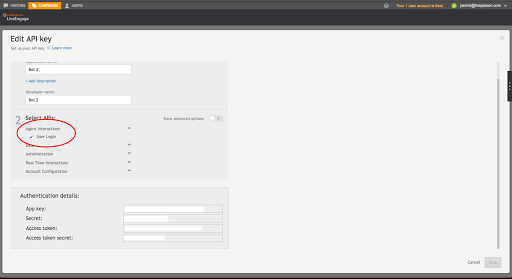
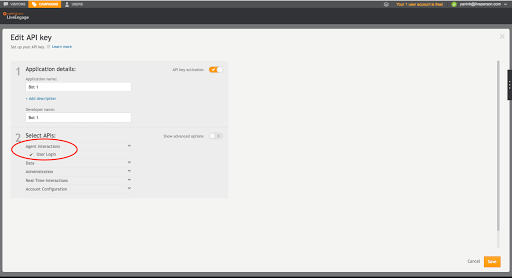
changes to login api and bringing back data access changelog

diff --git a/pages/documents/agent-interactions/login/getting-started.md b/pages/documents/agent-interactions/login/getting-started.md
@@ -20,7 +20,7 @@ This API provides endpoints for managing the User Session (User Login, Applicati
 
 **Use Cases**
 
-1. User Login - use this method when you need to provide a programmatic way for _users_ to access and manage a LiveEngage session such as customized agent workspace or hosting a LiveEngage user in an external app. _Note_
+1. User Login - use this method when you need to provide a programmatic way for _users_ to access and manage a LiveEngage session such as customized agent workspace or hosting a LiveEngage user in an external app. _Note_:
 
     * Using the User Login method, logged in users will be managed under the same restrictions as normal users in LiveEngage, including (for example) password expiration, concurrent conversations limits, skill groups and so on.
 
@@ -29,7 +29,7 @@ This API provides endpoints for managing the User Session (User Login, Applicati
 {:start="2"}
 2. Appplication Login - use this method when you need to provide a programmatic way for _applications_ to access and manage a LiveEngage session such as bots, virtual agents or any other app that needs to act as an agent in the LiveEngage.
 
-  * _Note_: the Application Login method overcomes both issues detailed above with the User Login method, for example password expiration or SSO integration.
+    * _Note_: the Application Login method overcomes both issues detailed above with the User Login method, for example password expiration or SSO integration.
 
 ### Getting Started
 
@@ -44,8 +44,44 @@ This API provides endpoints for managing the User Session (User Login, Applicati
 {:start="2"}
 2. Choose your method of login:
 
-    * As a user - use your LiveEngage username and password to [login](/agent-login.html){:target="_blank"}.
+  As a user:
 
-    * As an application - [Follow these instructions](guides-gettingstarted.html){:target="_blank"}, to create and use an API key. Select the "Agent Interactions" category and check the "User Login" box.
+    * use your LiveEngage username and password to [login](/agent-login.html){:target="_blank"}.
 
-  ![APIKeyCreation](img/APIKeyCreation.png)
+  As an application:
+
+  _Note_: In order to login as an application, you first need to have the "User Type - Bot" feature activated. Please contact your account team before moving forward.
+
+    * [Follow these instructions](guides-gettingstarted.html){:target="_blank"}, to create and use an API key. Select the "Agent Interactions" category and check the "User Login" box.
+
+      ![APIKeyCreation](img/APIKeyCreation.png)
+
+      Note that all of the authentication details below have been filled out. You will use these in the application login body of this API.
+
+      Copy the generated app key to clipboard for future use.
+
+      ![APIKeyCreation1](img/apikeycreation1.png)
+
+    * Create a new user from within LiveEngage and set the user type to "Bot":
+
+      ![SetBot](img/setbot.png)
+
+    * Select "App Key" from the Login Method dropdown:
+
+      ![LoginMethod](img/loginmethod.png)
+
+    * Paste the app key you generated earlier into the app key field and finish creating the user (fill in all mandatory fields). Once done, click save at the top right.
+
+      ![UserWithKey](img/userwithkey.png)
+
+
+
+
+
+    * Once you have generated your application, you will need to associate it with a bot user.
+
+
+
+    * Once the user is created, copy paste your application key into the "app key" field in the user generation menu:
+
+    ![AppKey](images/appkey.png)

diff --git a/pages/documents/data/data-access/changelog.md b/pages/documents/data/data-access/changelog.md
@@ -1,0 +1,23 @@
+---
+title: Changelog
+level1: Documents
+level2: Data
+level3: Data Access API
+
+order: 62
+permalink: data-data-access-changelog.html
+
+---
+This document describes changes made to the Data Access API. Entries will appear under a relevant date and will detail changes made to either the documentation or the API itself. All changes should be backwards compatible but where they are not or extra work is needed to make sure that backwards compatibility is maintained, the Changelog will mention this.
+
+All future dates found in this documentation reflect approximations for upcoming additions or corrections and are subject to change.
+
+### June 18th, 2017
+
+**Bug Fixes**
+
+Fixed a bug where some of the conversation records created by the Data Access job had missing conversation IDs.
+
+**Data Access Schema (version 1.0.0.34)**  
+
+The `isInteractive` boolean field was added to the transfer section. This field indicates whether the transfer part of the conversation is interactive or not. _To clarify_, the `isInteractive` field in the main conversation section relates to the last part of the conversation.

diff --git a/pages/documents/data/data-access/appendix.md b/pages/documents/data/data-access/appendix.md
@@ -4,7 +4,7 @@ level1: Documents
 level2: Data
 level3: Data Access API
 
-order: 62
+order: 63
 permalink: data-data-access-appendix.html
 
 indicator: chat
@@ -14,16 +14,13 @@ This section contains API details that are common to every API’s resource and 
 
 ### Request Headers
 
-| Header | Description | 
+| Header | Description |
 | :------ | :----- |
-| Authorization | Contains token string to allow request authentication and authorization. | 
-| If-Match | Contains data revision as known by the client. Allows to optimize the backend, networking and client resources utilization. | 
+| Authorization | Contains token string to allow request authentication and authorization. |
+| If-Match | Contains data revision as known by the client. Allows to optimize the backend, networking and client resources utilization. |
 
 ### Path Parameters
 
 | Parameter | Description | Type / Value |
 | :------ | :-------- | :------ |
 | accountId | LP site ID. | String ^[a-zA-Z0-9_]{1,20}$ |
-
-
-
